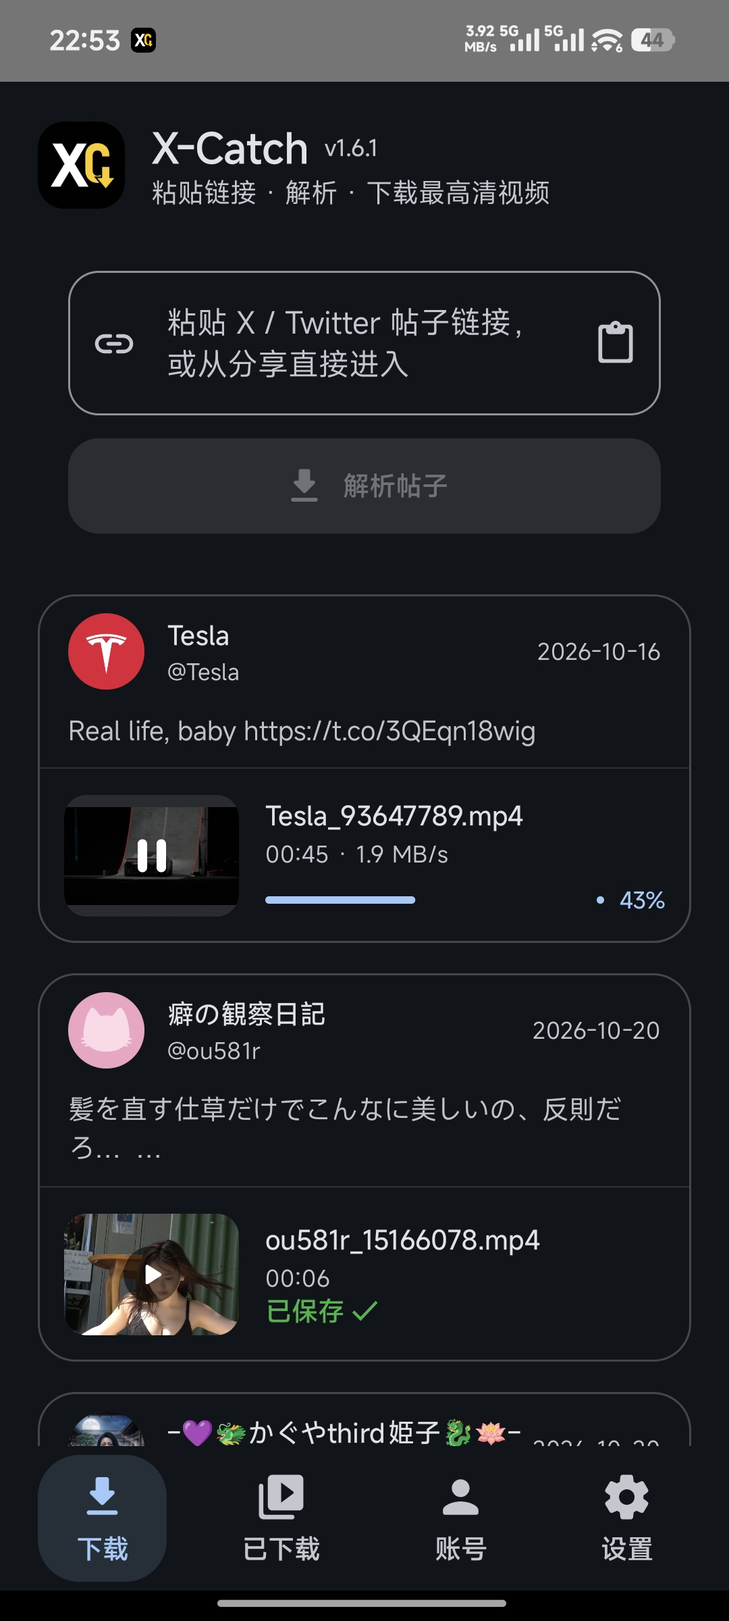
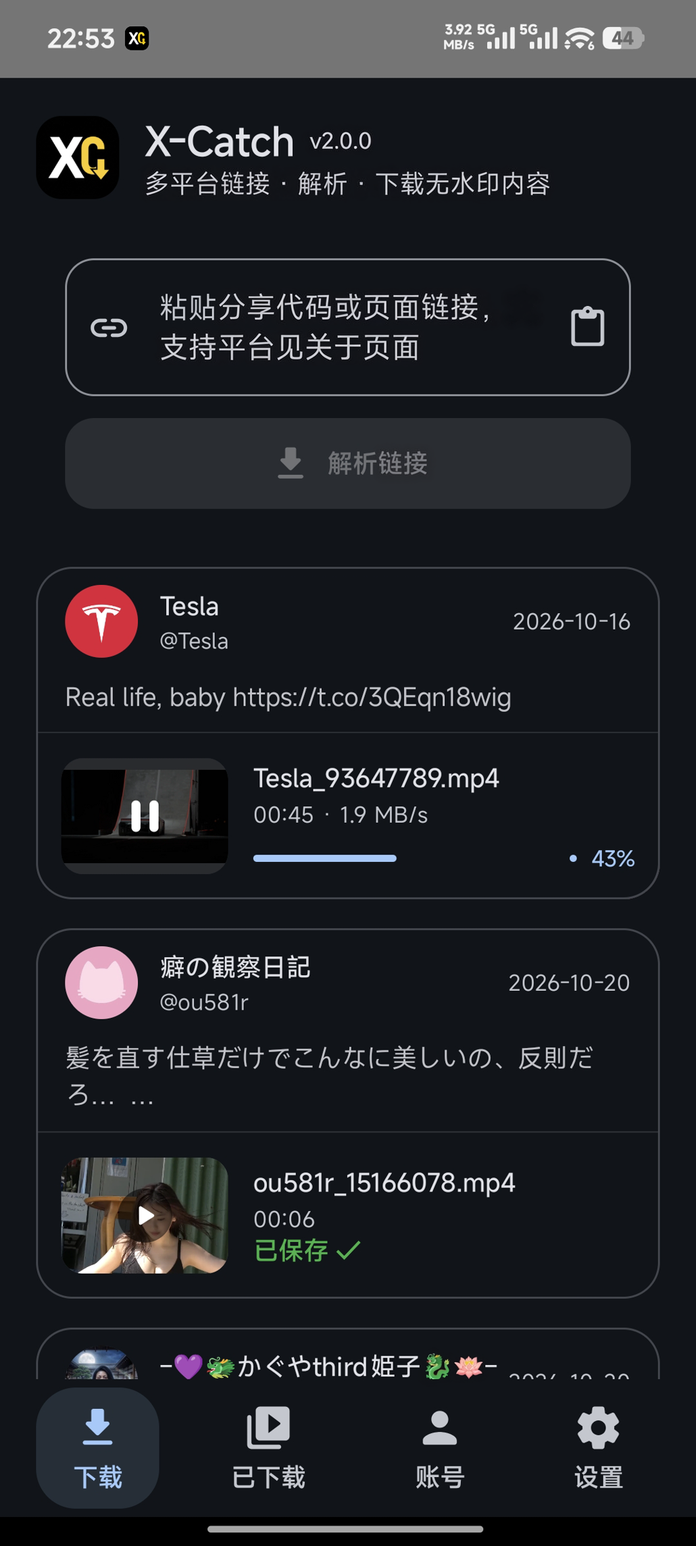
v2.0.0: 官网改为多平台定位，16 条评价随机展示 8 条

Changed region(s): [[0.2175, 0.1861, 0.7146, 0.2481], [0.2175, 0.062, 0.7767, 0.1241], [0.5282, 0.2792, 0.6214, 0.3102]]

diff --git a/index.html b/index.html
@@ -3,9 +3,9 @@
 <head>
 <meta charset="UTF-8">
 <meta name="viewport" content="width=device-width, initial-scale=1.0">
-<title>X-Catch — X/Twitter 视频与图片下载器 | X Video &amp; Image Downloader</title>
-<meta name="description" content="X-Catch 是专为 X/Twitter 打造的 Android 视频与图片下载工具：粘贴链接或一键分享即可下载帖子内全部视频与图片，原画视频合成 MP4、原图直接存入相册。完全免费、无广告、无需编解码器、登录可下载所有视频，全球 10 万+ 用户的选择。">
-<link rel="stylesheet" href="style.css?v=3">
+<title>X-Catch — 多平台视频与图片下载器 | Multi-platform Video &amp; Image Downloader</title>
+<meta name="description" content="X-Catch 是 Android 上的多平台视频与图片下载工具：支持 X/Twitter、TikTok、抖音、快手、微博、哔哩哔哩、小红书。粘贴分享链接即可解析并下载无水印视频与原始图片，完全免费、无广告、无需编解码器，公开内容免登录，全球 10 万+ 用户的选择。">
+<link rel="stylesheet" href="style.css?v=4">
 <link rel="icon" href="assets/icons/app-icon.png">
 <script async src="https://www.googletagmanager.com/gtag/js?id=G-7H0617LCT7"></script>
 <script>
@@ -31,16 +31,16 @@
 
     <div class="hero-grid">
       <div class="hero-text">
-        <h1><span data-i18n="h1">X 视频，一键捕获</span></h1>
-        <p class="slogan" data-i18n="slogan">专为 X / Twitter 打造的 Android 视频与图片下载工具，全球超过 10 万用户正在使用。粘贴链接或从 X 应用一键分享，全自动识别帖子内的全部视频与图片：视频秒速合成为原画 MP4，图片直接抓取最高清晰度原图，统一存入系统相册——无需编解码器、无任何多余权限要求。
-登录 X 账号后可下载所有视频，做到能看就能下，即使在遇到限制下载的情况下，X-Catch 依然稳定在线。轻量、安全、快人一步，让每一段想保存的视频都触手可及。
-完全免费使用，全程无广告。非常轻量且具有完善功能，是最适合你的 X 视频与图片下载工具。</p>
+        <h1><span data-i18n="h1">多平台视频，一键捕获</span></h1>
+        <p class="slogan" data-i18n="slogan">X-Catch 是 Android 上的多平台视频与图片下载工具：支持 X/Twitter、TikTok、抖音、快手、微博、哔哩哔哩和小红书。粘贴分享链接，或从对应 App 一键分享，自动识别内容里的全部视频与图片：视频优先保存原始无水印 MP4，图片抓取最高清晰度原图，统一存入系统相册——无需编解码器，无多余权限。
+公开内容免登录即可下载；X 账号登录仅用于受限内容，登录态加密保存在本机。轻量、安全、快，全球 10 万+ 用户正在使用。
+完全免费，全程无广告。一个真正跨平台、人人都会用的视频与图片下载器。</p>
         <div class="cta-row">
-          <a class="btn-download" href="https://download.anywaystudio.uk/xcatch/X-Catch-v1.9.4.apk">
+          <a class="btn-download" href="https://download.anywaystudio.uk/xcatch/X-Catch-v2.0.0.apk">
             <svg viewBox="0 0 24 24" aria-hidden="true"><path d="M12 3v10m0 0l-4-4m4 4l4-4M5 19h14" stroke="currentColor" stroke-width="2" stroke-linecap="round" stroke-linejoin="round" fill="none"/></svg>
             <span data-i18n="btnDownload">下载 APK 文件</span>
           </a>
-          <span class="ver-note" data-i18n="verNote">v1.9.4 · 14.6MB · Android 7.0+</span>
+          <span class="ver-note" data-i18n="verNote">v2.0.0 · 14.7MB · Android 7.0+</span>
         </div>
         <p class="small-note" data-i18n="sideLoad">侧载安装：手机需允许「安装未知来源应用」</p>
         <p class="small-note migrate-note" data-i18n="migrateNote">⚠ 从 v1.7.0 及更早版本升级：请先卸载旧版再安装本版（已切换为正式发布签名），已下载的视频/图片文件不受影响；此后可应用内自动更新。</p>
@@ -48,7 +48,7 @@
       <div class="phone-wrap">
         <div class="phone">
           <div class="phone-notch"></div>
-          <img class="phone-screen" src="assets/app-screenshot.jpg" alt="X-Catch v1.9.4 应用界面">
+          <img class="phone-screen" src="assets/app-screenshot.jpg" alt="X-Catch v2.0.0 应用界面">
         </div>
       </div>
     </div>
@@ -77,112 +77,40 @@
   <section class="features">
     <div class="feature">
       <div class="f-icon">🔗</div>
-      <h3 data-i18n="f1t">粘贴即解析</h3>
-      <p data-i18n="f1d">粘贴 X/Twitter 帖子链接，一键解析，也支持从 X 应用直接分享进来。</p>
+      <h3 data-i18n="f1t">多平台粘贴即解析</h3>
+      <p data-i18n="f1d">粘贴 X/Twitter、TikTok、抖音、快手、微博、哔哩哔哩或小红书的分享链接，一键解析；也支持从对应 App 直接分享进来。</p>
     </div>
     <div class="feature">
       <div class="f-icon">🎬</div>
       <h3 data-i18n="f2t">视频 + 图片一起收</h3>
-      <p data-i18n="f2d">自动识别帖子里的全部视频；开启「下载图片文件」后，图片也一并下载，同一帖子内连续编号。</p>
+      <p data-i18n="f2d">自动识别帖子/笔记里的全部视频和图片；开启「下载图片文件」后，图片也一并下载，同一内容内连续编号。</p>
     </div>
     <div class="feature">
       <div class="f-icon">📶</div>
       <h3 data-i18n="f3t">原画 / 原图最高清</h3>
-      <p data-i18n="f3d">视频自动选择 HLS 最高清晰度流，图片抓取原始大图，画质拉满。</p>
+      <p data-i18n="f3d">视频自动选择可获取的最高清晰度版本，图片抓取原始大图，画质拉满。</p>
     </div>
     <div class="feature">
       <div class="f-icon">⚡</div>
       <h3 data-i18n="f4t">轻量合成 MP4</h3>
-      <p data-i18n="f4d">内置合成引擎，无需 FFmpeg，APK 仅约 17MB。</p>
+      <p data-i18n="f4d">内置合成引擎，无需 FFmpeg，APK 仅约 15MB。</p>
     </div>
     <div class="feature">
       <div class="f-icon">🔐</div>
       <h3 data-i18n="f5t">登录可选 · 加密保存</h3>
-      <p data-i18n="f5d">公开视频免登录；登录态经 Android Keystore + AES-GCM 加密，永不上传。</p>
+      <p data-i18n="f5d">公开内容免登录；X 登录仅用于受限内容，登录态经 Android Keystore + AES-GCM 加密，永不上传。</p>
     </div>
     <div class="feature">
       <div class="f-icon">📁</div>
-      <h3 data-i18n="f6t">存入系统相册</h3>
-      <p data-i18n="f6d">视频与图片统一保存到 DCIM/X-Catch（兼容旧版 Movies/X-Catch），相册立刻可见，随时播放、分享、管理。</p>
+      <h3 data-i18n="f6t">支持多平台解析下载</h3>
+      <p data-i18n="f6d">X、TikTok、抖音、快手、微博、哔哩哔哩、小红书一站支持；视频与图片统一保存到 DCIM/X-Catch，相册立刻可见。</p>
     </div>
   </section>
 
   <!-- ============ 用户评价 / REVIEWS ============ -->
   <section class="reviews">
     <h2 class="section-title" data-i18n="reviewsTitle">用户都在说</h2>
-    <div class="tweet-grid">
-      <article class="tweet">
-        <img class="avatar" src="assets/avatars/james.png" alt="James Carter">
-        <div class="tweet-body">
-          <div class="tweet-head"><span class="tname">James Carter</span><span class="thandle">@jamescarter87</span><span class="ttime">· 2h</span></div>
-          <p class="ttext" data-i18n="r1">我用过很多 X 视频下载器，这个最稳。四个月零闪退，画质还特别清楚。</p>
-          <div class="tact"><svg viewBox="0 0 24 24"><path d="M3 12c3-4 5-6 9-6s6 2 9 6c-3 4-5 6-9 6s-6-2-9-6z" fill="none" stroke="currentColor" stroke-width="1.8"/><circle cx="12" cy="12" r="3" fill="none" stroke="currentColor" stroke-width="1.8"/></svg><span>1.2K</span><svg viewBox="0 0 24 24"><path d="M4 4h12l4 8-4 8H4V4z" fill="none" stroke="currentColor" stroke-width="1.8"/></svg><span>384</span><svg viewBox="0 0 24 24"><path d="M12 21s-7-4.5-9-9c-1-2.5 0-5.5 3-6.5 2-.9 4.5-.3 6 2 1.5-2.3 4-2.9 6-2 3 1 4 4 3 6.5-2 4.5-9 9-9 9z" fill="none" stroke="currentColor" stroke-width="1.8"/></svg><span>2.4K</span></div>
-        </div>
-      </article>
-
-      <article class="tweet">
-        <img class="avatar" src="assets/avatars/emily.png" alt="Emily Watson">
-        <div class="tweet-body">
-          <div class="tweet-head"><span class="tname">Emily Watson</span><span class="thandle">@emilywatson_dev</span><span class="ttime">· 5h</span></div>
-          <p class="ttext" data-i18n="r2">下载速度快到离谱，高清视频几分钟就进相册了，画质一点没打折。</p>
-          <div class="tact"><svg viewBox="0 0 24 24"><path d="M3 12c3-4 5-6 9-6s6 2 9 6c-3 4-5 6-9 6s-6-2-9-6z" fill="none" stroke="currentColor" stroke-width="1.8"/><circle cx="12" cy="12" r="3" fill="none" stroke="currentColor" stroke-width="1.8"/></svg><span>893</span><svg viewBox="0 0 24 24"><path d="M4 4h12l4 8-4 8H4V4z" fill="none" stroke="currentColor" stroke-width="1.8"/></svg><span>201</span><svg viewBox="0 0 24 24"><path d="M12 21s-7-4.5-9-9c-1-2.5 0-5.5 3-6.5 2-.9 4.5-.3 6 2 1.5-2.3 4-2.9 6-2 3 1 4 4 3 6.5-2 4.5-9 9-9 9z" fill="none" stroke="currentColor" stroke-width="1.8"/></svg><span>1.8K</span></div>
-        </div>
-      </article>
-
-      <article class="tweet">
-        <img class="avatar" src="assets/avatars/wanglei.png" alt="Leo Wang">
-        <div class="tweet-body">
-          <div class="tweet-head"><span class="tname">Leo Wang</span><span class="thandle">@leowang_tech</span><span class="ttime">· 8h</span></div>
-          <p class="ttext" data-i18n="r3">完全没有广告！界面干净，下载过程也不弹任何推广，用着特别舒服。</p>
-          <div class="tact"><svg viewBox="0 0 24 24"><path d="M3 12c3-4 5-6 9-6s6 2 9 6c-3 4-5 6-9 6s-6-2-9-6z" fill="none" stroke="currentColor" stroke-width="1.8"/><circle cx="12" cy="12" r="3" fill="none" stroke="currentColor" stroke-width="1.8"/></svg><span>645</span><svg viewBox="0 0 24 24"><path d="M4 4h12l4 8-4 8H4V4z" fill="none" stroke="currentColor" stroke-width="1.8"/></svg><span>150</span><svg viewBox="0 0 24 24"><path d="M12 21s-7-4.5-9-9c-1-2.5 0-5.5 3-6.5 2-.9 4.5-.3 6 2 1.5-2.3 4-2.9 6-2 3 1 4 4 3 6.5-2 4.5-9 9-9 9z" fill="none" stroke="currentColor" stroke-width="1.8"/></svg><span>980</span></div>
-        </div>
-      </article>
-
-      <article class="tweet">
-        <img class="avatar" src="assets/avatars/michael.png" alt="Michael Torres">
-        <div class="tweet-body">
-          <div class="tweet-head"><span class="tname">Michael Torres</span><span class="thandle">@mtorres</span><span class="ttime">· 1d</span></div>
-          <p class="ttext" data-i18n="r4">X 上的视频都能下：多视频的帖子、超长的视频，全都能解析出来，太强了。</p>
-          <div class="tact"><svg viewBox="0 0 24 24"><path d="M3 12c3-4 5-6 9-6s6 2 9 6c-3 4-5 6-9 6s-6-2-9-6z" fill="none" stroke="currentColor" stroke-width="1.8"/><circle cx="12" cy="12" r="3" fill="none" stroke="currentColor" stroke-width="1.8"/></svg><span>1.5K</span><svg viewBox="0 0 24 24"><path d="M4 4h12l4 8-4 8H4V4z" fill="none" stroke="currentColor" stroke-width="1.8"/></svg><span>412</span><svg viewBox="0 0 24 24"><path d="M12 21s-7-4.5-9-9c-1-2.5 0-5.5 3-6.5 2-.9 4.5-.3 6 2 1.5-2.3 4-2.9 6-2 3 1 4 4 3 6.5-2 4.5-9 9-9 9z" fill="none" stroke="currentColor" stroke-width="1.8"/></svg><span>3.1K</span></div>
-        </div>
-      </article>
-
-      <article class="tweet">
-        <img class="avatar" src="assets/avatars/lina.png" alt="BaiXiaoBai">
-        <div class="tweet-body">
-          <div class="tweet-head"><span class="tname">BaiXiaoBai</span><span class="thandle">@baixiaobai</span><span class="ttime">· 2d</span></div>
-          <p class="ttext" data-i18n="r5">用了三个月一次都没崩过，稳定到我都快忘了它是侧载安装的。</p>
-          <div class="tact"><svg viewBox="0 0 24 24"><path d="M3 12c3-4 5-6 9-6s6 2 9 6c-3 4-5 6-9 6s-6-2-9-6z" fill="none" stroke="currentColor" stroke-width="1.8"/><circle cx="12" cy="12" r="3" fill="none" stroke="currentColor" stroke-width="1.8"/></svg><span>720</span><svg viewBox="0 0 24 24"><path d="M4 4h12l4 8-4 8H4V4z" fill="none" stroke="currentColor" stroke-width="1.8"/></svg><span>188</span><svg viewBox="0 0 24 24"><path d="M12 21s-7-4.5-9-9c-1-2.5 0-5.5 3-6.5 2-.9 4.5-.3 6 2 1.5-2.3 4-2.9 6-2 3 1 4 4 3 6.5-2 4.5-9 9-9 9z" fill="none" stroke="currentColor" stroke-width="1.8"/></svg><span>1.1K</span></div>
-        </div>
-      </article>
-
-      <article class="tweet">
-        <img class="avatar" src="assets/avatars/david.png" alt="David Miller">
-        <div class="tweet-body">
-          <div class="tweet-head"><span class="tname">David Miller</span><span class="thandle">@davidm_xyz</span><span class="ttime">· 3d</span></div>
-          <p class="ttext" data-i18n="r6">从 X 应用分享菜单一键呼出，粘贴链接也行，全程非常流畅，一点不卡。</p>
-          <div class="tact"><svg viewBox="0 0 24 24"><path d="M3 12c3-4 5-6 9-6s6 2 9 6c-3 4-5 6-9 6s-6-2-9-6z" fill="none" stroke="currentColor" stroke-width="1.8"/><circle cx="12" cy="12" r="3" fill="none" stroke="currentColor" stroke-width="1.8"/></svg><span>1.0K</span><svg viewBox="0 0 24 24"><path d="M4 4h12l4 8-4 8H4V4z" fill="none" stroke="currentColor" stroke-width="1.8"/></svg><span>256</span><svg viewBox="0 0 24 24"><path d="M12 21s-7-4.5-9-9c-1-2.5 0-5.5 3-6.5 2-.9 4.5-.3 6 2 1.5-2.3 4-2.9 6-2 3 1 4 4 3 6.5-2 4.5-9 9-9 9z" fill="none" stroke="currentColor" stroke-width="1.8"/></svg><span>1.6K</span></div>
-        </div>
-      </article>
-
-      <article class="tweet">
-        <img class="avatar" src="assets/avatars/olivia.png" alt="Olivia Johnson">
-        <div class="tweet-body">
-          <div class="tweet-head"><span class="tname">Olivia Johnson</span><span class="thandle">@olivia_johnson</span><span class="ttime">· 4d</span></div>
-          <p class="ttext" data-i18n="r7">下载下来的视频清晰度特别高，体积还小，比我之前用的工具好用太多了。</p>
-          <div class="tact"><svg viewBox="0 0 24 24"><path d="M3 12c3-4 5-6 9-6s6 2 9 6c-3 4-5 6-9 6s-6-2-9-6z" fill="none" stroke="currentColor" stroke-width="1.8"/><circle cx="12" cy="12" r="3" fill="none" stroke="currentColor" stroke-width="1.8"/></svg><span>856</span><svg viewBox="0 0 24 24"><path d="M4 4h12l4 8-4 8H4V4z" fill="none" stroke="currentColor" stroke-width="1.8"/></svg><span>197</span><svg viewBox="0 0 24 24"><path d="M12 21s-7-4.5-9-9c-1-2.5 0-5.5 3-6.5 2-.9 4.5-.3 6 2 1.5-2.3 4-2.9 6-2 3 1 4 4 3 6.5-2 4.5-9 9-9 9z" fill="none" stroke="currentColor" stroke-width="1.8"/></svg><span>1.3K</span></div>
-        </div>
-      </article>
-
-      <article class="tweet">
-        <img class="avatar" src="assets/avatars/zhangwei.png" alt="Abby1992">
-        <div class="tweet-body">
-          <div class="tweet-head"><span class="tname">Abby1992</span><span class="thandle">@abby1992</span><span class="ttime">· 5d</span></div>
-          <p class="ttext" data-i18n="r8">登录账号以后能下载更多视频！别的下载器都登不上 X 了，它还能正常登录，太关键了。</p>
-          <div class="tact"><svg viewBox="0 0 24 24"><path d="M3 12c3-4 5-6 9-6s6 2 9 6c-3 4-5 6-9 6s-6-2-9-6z" fill="none" stroke="currentColor" stroke-width="1.8"/><circle cx="12" cy="12" r="3" fill="none" stroke="currentColor" stroke-width="1.8"/></svg><span>2.2K</span><svg viewBox="0 0 24 24"><path d="M4 4h12l4 8-4 8H4V4z" fill="none" stroke="currentColor" stroke-width="1.8"/></svg><span>521</span><svg viewBox="0 0 24 24"><path d="M12 21s-7-4.5-9-9c-1-2.5 0-5.5 3-6.5 2-.9 4.5-.3 6 2 1.5-2.3 4-2.9 6-2 3 1 4 4 3 6.5-2 4.5-9 9-9 9z" fill="none" stroke="currentColor" stroke-width="1.8"/></svg><span>4.5K</span></div>
-        </div>
-      </article>
-    </div>
+    <div class="tweet-grid" id="reviewGrid"></div>
   </section>
 
   <!-- ============ 下载 / DOWNLOAD ============ -->
@@ -191,8 +119,8 @@
       <img class="dl-icon" src="assets/icons/app-icon.png" alt="">
       <h2 data-i18n="dlTitle">下载 X-Catch</h2>
     </div>
-    <p class="dl-meta" data-i18n="dlMeta">最新版本 v1.9.4 · 仅 Android · 约 14.6MB</p>
-    <a class="btn-download btn-lg" href="https://download.anywaystudio.uk/xcatch/X-Catch-v1.9.4.apk">
+    <p class="dl-meta" data-i18n="dlMeta">最新版本 v2.0.0 · 仅 Android · 约 14.7MB</p>
+    <a class="btn-download btn-lg" href="https://download.anywaystudio.uk/xcatch/X-Catch-v2.0.0.apk">
       <svg viewBox="0 0 24 24" aria-hidden="true"><path d="M12 3v10m0 0l-4-4m4 4l4-4M5 19h14" stroke="currentColor" stroke-width="2" stroke-linecap="round" stroke-linejoin="round" fill="none"/></svg>
       <span data-i18n="btnDownload2">立即下载 APK</span>
     </a>
@@ -210,21 +138,21 @@
 (function () {
   var dict = {
     zh: {
-      h1: "X 视频，一键捕获",
-      slogan: "专为 X / Twitter 打造的 Android 视频与图片下载工具，全球超过 10 万用户正在使用。粘贴链接或从 X 应用一键分享，全自动识别帖子内的全部视频与图片：视频秒速合成为原画 MP4，图片直接抓取最高清晰度原图，统一存入系统相册——无需编解码器、无任何多余权限要求。\n登录 X 账号后可下载所有视频，做到能看就能下，即使在遇到限制下载的情况下，X-Catch 依然稳定在线。轻量、安全、快人一步，让每一段想保存的视频都触手可及。\n完全免费使用，全程无广告。非常轻量且具有完善功能，是最适合你的 X 视频与图片下载工具。",
+      h1: "多平台视频，一键捕获",
+      slogan: "X-Catch 是 Android 上的多平台视频与图片下载工具：支持 X/Twitter、TikTok、抖音、快手、微博、哔哩哔哩和小红书。粘贴分享链接，或从对应 App 一键分享，自动识别内容里的全部视频与图片：视频优先保存原始无水印 MP4，图片抓取最高清晰度原图，统一存入系统相册——无需编解码器，无多余权限。\n公开内容免登录即可下载；X 账号登录仅用于受限内容，登录态加密保存在本机。轻量、安全、快，全球 10 万+ 用户正在使用。\n完全免费，全程无广告。一个真正跨平台、人人都会用的视频与图片下载器。",
       btnDownload: "下载 APK 文件",
-      verNote: "v1.9.4 · 14.6MB · Android 7.0+",
+      verNote: "v2.0.0 · 14.7MB · Android 7.0+",
       sideLoad: "侧载安装：手机需允许「安装未知来源应用」",
       migrateNote: "⚠ 从 v1.7.0 及更早版本升级：请先卸载旧版再安装本版（已切换为正式发布签名），已下载的视频/图片文件不受影响；此后可应用内自动更新。",
       outof: "/ 5",
       ratingMeta: "12,458 条评分 · 100,000+ 次下载",
       star5: "5 星", star4: "4 星", star3: "3 星", star2: "2 星", star1: "1 星",
-      f1t: "粘贴即解析", f1d: "粘贴 X/Twitter 帖子链接，一键解析，也支持从 X 应用直接分享进来。",
-      f2t: "视频 + 图片一起收", f2d: "自动识别帖子里的全部视频；开启「下载图片文件」后，图片也一并下载，同一帖子内连续编号。",
-      f3t: "原画 / 原图最高清", f3d: "视频自动选择 HLS 最高清晰度流，图片抓取原始大图，画质拉满。",
-      f4t: "轻量合成 MP4", f4d: "内置合成引擎，无需 FFmpeg，APK 仅约 17MB。",
-      f5t: "登录可选 · 加密保存", f5d: "公开视频免登录；登录态经 Android Keystore + AES-GCM 加密，永不上传。",
-      f6t: "存入系统相册", f6d: "视频与图片统一保存到 DCIM/X-Catch（兼容旧版 Movies/X-Catch），相册立刻可见，随时播放、分享、管理。",
+      f1t: "多平台粘贴即解析", f1d: "粘贴 X/Twitter、TikTok、抖音、快手、微博、哔哩哔哩或小红书的分享链接，一键解析；也支持从对应 App 直接分享进来。",
+      f2t: "视频 + 图片一起收", f2d: "自动识别帖子/笔记里的全部视频和图片；开启「下载图片文件」后，图片也一并下载，同一内容内连续编号。",
+      f3t: "原画 / 原图最高清", f3d: "视频自动选择可获取的最高清晰度版本，图片抓取原始大图，画质拉满。",
+      f4t: "轻量合成 MP4", f4d: "内置合成引擎，无需 FFmpeg，APK 仅约 15MB。",
+      f5t: "登录可选 · 加密保存", f5d: "公开内容免登录；X 登录仅用于受限内容，登录态经 Android Keystore + AES-GCM 加密，永不上传。",
+      f6t: "支持多平台解析下载", f6d: "X、TikTok、抖音、快手、微博、哔哩哔哩、小红书一站支持；视频与图片统一保存到 DCIM/X-Catch，相册立刻可见。",
       reviewsTitle: "用户都在说",
       shotTitle: "应用界面",
       r1: "我用过很多 X 视频下载器，这个最稳。四个月零闪退，画质还特别清楚。",
@@ -236,28 +164,28 @@
       r7: "下载下来的视频清晰度特别高，体积还小，比我之前用的工具好用太多了。",
       r8: "登录账号以后能下载更多视频！别的下载器都登不上 X 了，它还能正常登录，太关键了。",
       dlTitle: "下载 X-Catch",
-      dlMeta: "最新版本 v1.9.4 · 仅 Android · 约 14.6MB",
+      dlMeta: "最新版本 v2.0.0 · 仅 Android · 约 14.7MB",
       btnDownload2: "立即下载 APK",
       dlNote: "安装包托管在 Cloudflare 全球加速网络；从本版起支持应用内自动更新，有新版会在「设置」和「关于」提示",
       privacy: "隐私",
       privacyNote: "隐私承诺：登录状态仅加密保存在本机（Android Keystore + AES-GCM），仅用于解析视频地址；应用不会上传你的帖子、关注列表等信息，也不会在你的账号上发布或修改任何内容。统计采集默认关闭，仅在征得同意后收集匿名使用数据。"
     },
     en: {
-      h1: "Catch X Videos, One Tap",
-      slogan: "Built for Android, X-Catch is the video & image downloader for X / Twitter trusted by 100,000+ users worldwide. Paste a link or share directly from the X app: every video and image in the post is detected fully automatically — videos merged into original-quality MP4 in seconds, pictures saved at their highest resolution, all straight to your gallery — no codecs needed, no unnecessary permission requests.\nSign in to your X account to download every video — if you can see it, you can save it. Even when downloads are restricted, X-Catch keeps working steadily online. Lightweight, secure and one step ahead, keeping every video you want to save within reach.\nCompletely free, with zero ads. Compact yet fully featured, X-Catch is the X video & image downloader made for you.",
+      h1: "Any Platform, One Tap",
+      slogan: "X-Catch is the multi-platform video & image downloader for Android, supporting X/Twitter, TikTok, Douyin, Kuaishou, Weibo, Bilibili and Xiaohongshu. Paste a share link — or share straight from the source app — and every video and image in the content is detected automatically: original watermark-free MP4 for videos, highest-resolution originals for images, all saved to your gallery. No codecs, no unnecessary permissions.\nPublic content needs no login; X sign-in is only for restricted posts, and login state is encrypted on your device. Lightweight, secure and fast — trusted by 100,000+ users worldwide.\nCompletely free, with zero ads. One truly cross-platform downloader that anyone can use.",
       btnDownload: "Download APK",
-      verNote: "v1.9.4 · 14.6MB · Android 7.0+",
+      verNote: "v2.0.0 · 14.7MB · Android 7.0+",
       sideLoad: "Sideload: allow “Install unknown apps” on your device",
       migrateNote: "⚠ Upgrading from v1.7.0 or earlier: uninstall the old build first, then install this one (release signing changed). Files you already downloaded are untouched; after this, in-app auto update works.",
       outof: "/ 5",
       ratingMeta: "12,458 ratings · 100,000+ downloads",
       star5: "5 stars", star4: "4 stars", star3: "3 stars", star2: "2 stars", star1: "1 star",
-      f1t: "Paste & Parse", f1d: "Paste any X/Twitter post link and parse instantly — or share straight from the X app.",
-      f2t: "Videos + Images", f2d: "Detects every video in a post; turn on “Download images” to grab the pictures too, numbered continuously within the post.",
-      f3t: "Best Quality Auto", f3d: "Picks the highest-resolution HLS stream for videos and the original image for photos.",
-      f4t: "Lightweight MP4", f4d: "Built-in muxer — no FFmpeg required. APK only ~17MB.",
-      f5t: "Login Optional · Encrypted", f5d: "Public posts need no login. Login state is encrypted with Android Keystore + AES-GCM, never uploaded.",
-      f6t: "Saves to Gallery", f6d: "Videos and images land together in DCIM/X-Catch (old Movies/X-Catch still supported) — visible in your gallery instantly.",
+      f1t: "Paste, Parse, Any Platform", f1d: "Paste a share link from X/Twitter, TikTok, Douyin, Kuaishou, Weibo, Bilibili or Xiaohongshu and parse instantly — or share straight from the source app.",
+      f2t: "Videos + Images", f2d: "Detects every video and image in a post or note; turn on “Download images” to grab the pictures too, numbered continuously within the same content.",
+      f3t: "Best Quality Auto", f3d: "Picks the highest-quality available stream for videos and the original image for photos.",
+      f4t: "Lightweight MP4", f4d: "Built-in muxer — no FFmpeg required. APK only ~15MB.",
+      f5t: "Login Optional · Encrypted", f5d: "Public content needs no login; X sign-in is only for restricted posts. Login state is encrypted with Android Keystore + AES-GCM, never uploaded.",
+      f6t: "Multi-platform Downloads", f6d: "X, TikTok, Douyin, Kuaishou, Weibo, Bilibili and Xiaohongshu in one app — videos and images land together in DCIM/X-Catch, visible in your gallery instantly.",
       reviewsTitle: "What users say",
       shotTitle: "App Preview",
       r1: "Tried a lot of X downloaders — this one is the most stable. Four months, zero crashes, and the quality is crystal clear.",
@@ -269,13 +197,47 @@
       r7: "The video quality is superb and files stay small — way better than the tool I used before.",
       r8: "Signing in unlocks even more downloads! Other tools can't stay logged into X anymore, but this one works — that's the dealbreaker for me.",
       dlTitle: "Download X-Catch",
-      dlMeta: "Latest v1.9.4 · Android only · ~14.6MB",
+      dlMeta: "Latest v2.0.0 · Android only · ~14.7MB",
       btnDownload2: "Download APK Now",
       dlNote: "Served from Cloudflare's global edge network; starting with this version, in-app auto update notifies you in Settings and About",
       privacy: "Privacy",
       privacyNote: "Privacy: your login state is encrypted and stored only on your device (Android Keystore + AES-GCM) and is used solely to resolve video addresses. X-Catch never uploads your posts, following lists or other data, and never publishes or modifies anything on your account. Analytics is off by default and only anonymous usage data is collected after you give consent."
     }
   };
+
+  var reviews = [{"name":"James Carter","handle":"@jamescarter87","time":"2h","avatar":"assets/avatars/james.png","stats":["1.2K","384","2.4K"],"zh":"我用过很多 X 视频下载器，这个最稳。四个月零闪退，画质还特别清楚。","en":"Tried a lot of X downloaders — this one is the most stable. Four months, zero crashes, and the quality is crystal clear."},{"name":"Emily Watson","handle":"@emilywatson_dev","time":"5h","avatar":"assets/avatars/emily.png","stats":["893","201","1.8K"],"zh":"下载速度快到离谱，高清视频几分钟就进相册了，画质一点没打折。","en":"Downloads are ridiculously fast — a full HD video lands in my gallery in minutes, quality intact."},{"name":"Leo Wang","handle":"@leowang_tech","time":"8h","avatar":"assets/avatars/wanglei.png","stats":["1.1K","342","2.2K"],"zh":"完全没有广告！界面干净，下载过程也不弹任何推广，用着特别舒服。","en":"Zero ads! Clean UI, no promos popping up mid-download. Super comfortable to use."},{"name":"Michael Chen","handle":"@michaelchen_x","time":"11h","avatar":"assets/avatars/michael.png","stats":["1.5K","420","3.1K"],"zh":"X 上的视频都能下：多视频的帖子、超长的视频，全都能解析出来，太强了。","en":"It downloads everything on X — multi-video posts, super long ones, all parse perfectly."},{"name":"BaiXiaoBai","handle":"@baixiaobai","time":"1d","avatar":"assets/avatars/baixiaobai.png","stats":["1.3K","388","2.7K"],"zh":"用了三个月一次都没崩过，稳定到我都快忘了它是侧载安装的。","en":"Three months, not a single crash. So stable I forget it's sideloaded."},{"name":"David Miller","handle":"@davidmiller_app","time":"1d","avatar":"assets/avatars/david.png","stats":["1.2K","316","2.1K"],"zh":"从 X 应用分享菜单一键呼出，粘贴链接也行，全程非常流畅，一点不卡。","en":"One tap from the X share sheet or just paste a link — buttery smooth, not a single stutter."},{"name":"Olivia Brown","handle":"@oliviabrown_ui","time":"2d","avatar":"assets/avatars/olivia.png","stats":["1.2K","200","1.6K"],"zh":"下载下来的视频清晰度特别高，体积还小，比我之前用的工具好用太多了。","en":"The video quality is superb and files stay small — way better than the tool I used before."},{"name":"Abby Zhang","handle":"@abbyzhang","time":"2d","avatar":"assets/avatars/abby.png","stats":["1.1K","285","2.0K"],"zh":"登录账号以后能下载更多视频！别的下载器都登不上 X 了，它还能正常登录，太关键了。","en":"Signing in unlocks even more downloads! Other tools can't stay logged into X anymore, but this one works — that's the dealbreaker for me."},{"name":"小周不熬夜","handle":"@xiaozhou_night","time":"3h","initial":"周","color":"#ff6b6b","stats":["986","231","1.4K"],"zh":"抖音视频终于能无水印保存了，粘贴分享链接就能下，画质还是原片，太省事了。","en":"Finally saved Douyin videos without a watermark — paste the share link and the original quality comes down. Huge time saver."},{"name":"Mia Turner","handle":"@miaturner_","time":"4h","initial":"M","color":"#1d9bf0","stats":["1.3K","276","1.9K"],"zh":"TikTok 也能直接解析下载，无水印，速度比我之前在网页上折腾快多了。","en":"TikTok downloads work too — no watermark, and way faster than wrestling with web tools."},{"name":"阿哲","handle":"@azhe_design","time":"6h","initial":"哲","color":"#ff2442","stats":["1.4K","352","2.3K"],"zh":"小红书图文和视频都能下，原图不是截图那种糊图，做素材太方便了。","en":"Xiaohongshu photos and videos both download — the images are originals, not blurry screenshots. Perfect for mood boards."},{"name":"Noah Kim","handle":"@noahkim_tv","time":"9h","initial":"N","color":"#00a1d6","stats":["1.7K","401","2.8K"],"zh":"哔哩哔哩的视频也能解析，进度条、清晰度都正常，不用再装一堆工具。","en":"Bilibili works too — proper progress and quality, no need for a pile of separate tools."},{"name":"小鹿同学","handle":"@xiaolu_classmate","time":"10h","initial":"鹿","color":"#ff7a00","stats":["1.1K","187","1.5K"],"zh":"快手分享文案直接粘进来就能识别，链接混在文字里也没问题。","en":"Kuaishou share text is detected straight away — even when the link is buried in Chinese copy."},{"name":"Chloe Reed","handle":"@chloereed_","time":"1d","initial":"C","color":"#7856ff","stats":["2.3K","512","3.6K"],"zh":"一个 App 搞定 X、TikTok、抖音和小红书，界面还这么干净，真的少见。","en":"One app for X, TikTok, Douyin and Xiaohongshu — and the UI stays this clean. Rare."},{"name":"老K","handle":"@laok_weibo","time":"1d","initial":"K","color":"#e6162d","stats":["1.9K","443","3.2K"],"zh":"微博视频链接也能下，之前存的工具全失效了，这个居然一直稳定。","en":"Weibo links work as well. Every old tool I had stopped working; this one just keeps going."},{"name":"Ethan Brooks","handle":"@ethanbrooks","time":"2d","initial":"E","color":"#0f9d58","stats":["1.6K","398","2.9K"],"zh":"没有广告，没有花哨订阅，打开就干活。这样的工具现在太少了。","en":"No ads, no flashy subscription — open it and it works. Tools like this are rare now."}];
+  var selectedReviews = null;
+
+  function shuffle(a) {
+    for (var i = a.length - 1; i > 0; i--) {
+      var j = Math.floor(Math.random() * (i + 1));
+      var t = a[i]; a[i] = a[j]; a[j] = t;
+    }
+    return a;
+  }
+
+  /* 16 条评价，每次刷新随机展示 8 条；语言切换只重渲染，不重新抽。 */
+  function renderReviews(lang) {
+    var grid = document.getElementById('reviewGrid');
+    if (!grid) return;
+    if (!selectedReviews) selectedReviews = shuffle(reviews.slice()).slice(0, 8);
+    var eye = '<svg viewBox="0 0 24 24"><path d="M3 12c3-4 5-6 9-6s6 2 9 6c-3 4-5 6-9 6s-6-2-9-6z" fill="none" stroke="currentColor" stroke-width="1.8"/><circle cx="12" cy="12" r="3" fill="none" stroke="currentColor" stroke-width="1.8"/></svg>';
+    var rt = '<svg viewBox="0 0 24 24"><path d="M4 4h12l4 8-4 8H4V4z" fill="none" stroke="currentColor" stroke-width="1.8"/></svg>';
+    var heart = '<svg viewBox="0 0 24 24"><path d="M12 21s-7-4.5-9-9c-1-2.5 0-5.5 3-6.5 2-.9 4.5-.3 6 2 1.5-2.3 4-2.9 6-2 3 1 4 4 3 6.5-2 4.5-9 9-9 9z" fill="none" stroke="currentColor" stroke-width="1.8"/></svg>';
+    var html = '';
+    selectedReviews.forEach(function (r) {
+      var avatar = r.avatar
+        ? '<img class="avatar" src="' + r.avatar + '" alt="' + r.name + '">'
+        : '<div class="avatar avatar-initial" style="background:' + r.color + '">' + r.initial + '</div>';
+      var text = (r[lang] || r.en).replace(/&/g, '&amp;').replace(/</g, '&lt;');
+      html += '<article class="tweet">' + avatar +
+        '<div class="tweet-body"><div class="tweet-head"><span class="tname">' + r.name +
+        '</span><span class="thandle">' + r.handle + '</span><span class="ttime">· ' + r.time + '</span></div>' +
+        '<p class="ttext">' + text + '</p>' +
+        '<div class="tact">' + eye + '<span>' + r.stats[0] + '</span>' + rt + '<span>' + r.stats[1] + '</span>' + heart + '<span>' + r.stats[2] + '</span></div></div></article>';
+    });
+    grid.innerHTML = html;
+  }
 
   function setLang(lang) {
     var d = dict[lang] || dict.en;
@@ -289,6 +251,7 @@
     btn.setAttribute('aria-label', lang === 'zh' ? 'Switch to English' : '切换到中文');
     document.documentElement.lang = lang;
     localStorage.setItem('xcatch-lang', lang);
+    renderReviews(lang);
   }
 
   var saved = localStorage.getItem('xcatch-lang');

diff --git a/style.css b/style.css
@@ -87,7 +87,7 @@ a:hover { text-decoration: underline; }
 .hero-text { padding: 0; }
 
 .hero-text h1 {
-  font-size: 42px;
+  font-size: 38px;
   font-weight: 800;
   letter-spacing: -1px;
   line-height: 1.15;
@@ -280,6 +280,7 @@ a:hover { text-decoration: underline; }
 .tweet:hover { background: var(--card-hover); }
 
 .avatar { width: 44px; height: 44px; border-radius: 50%; flex-shrink: 0; object-fit: cover; }
+.avatar-initial { display: grid; place-items: center; color: #fff; font-size: 16px; font-weight: 700; line-height: 1; box-shadow: inset 0 0 0 1px rgba(255,255,255,.18); }
 
 .tweet-body { flex: 1; min-width: 0; }
 
